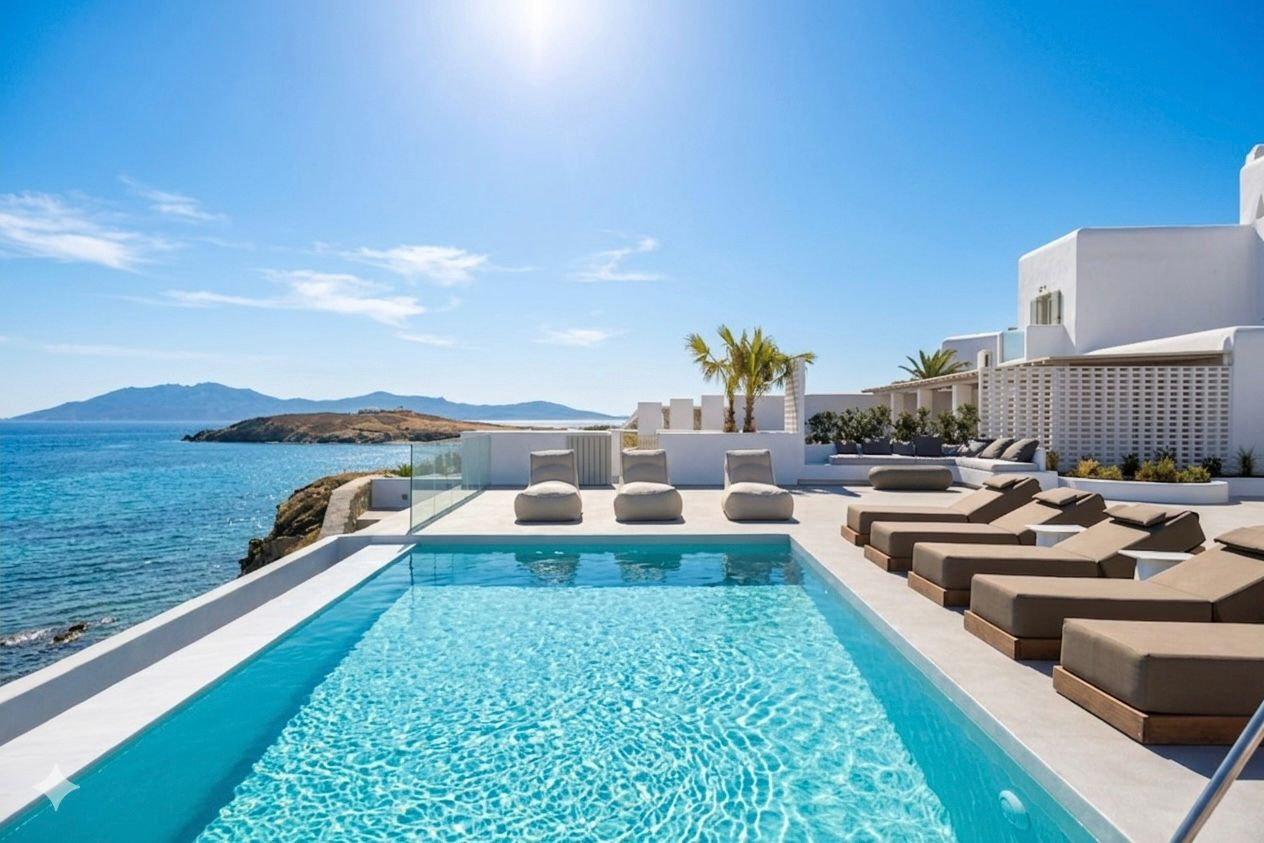
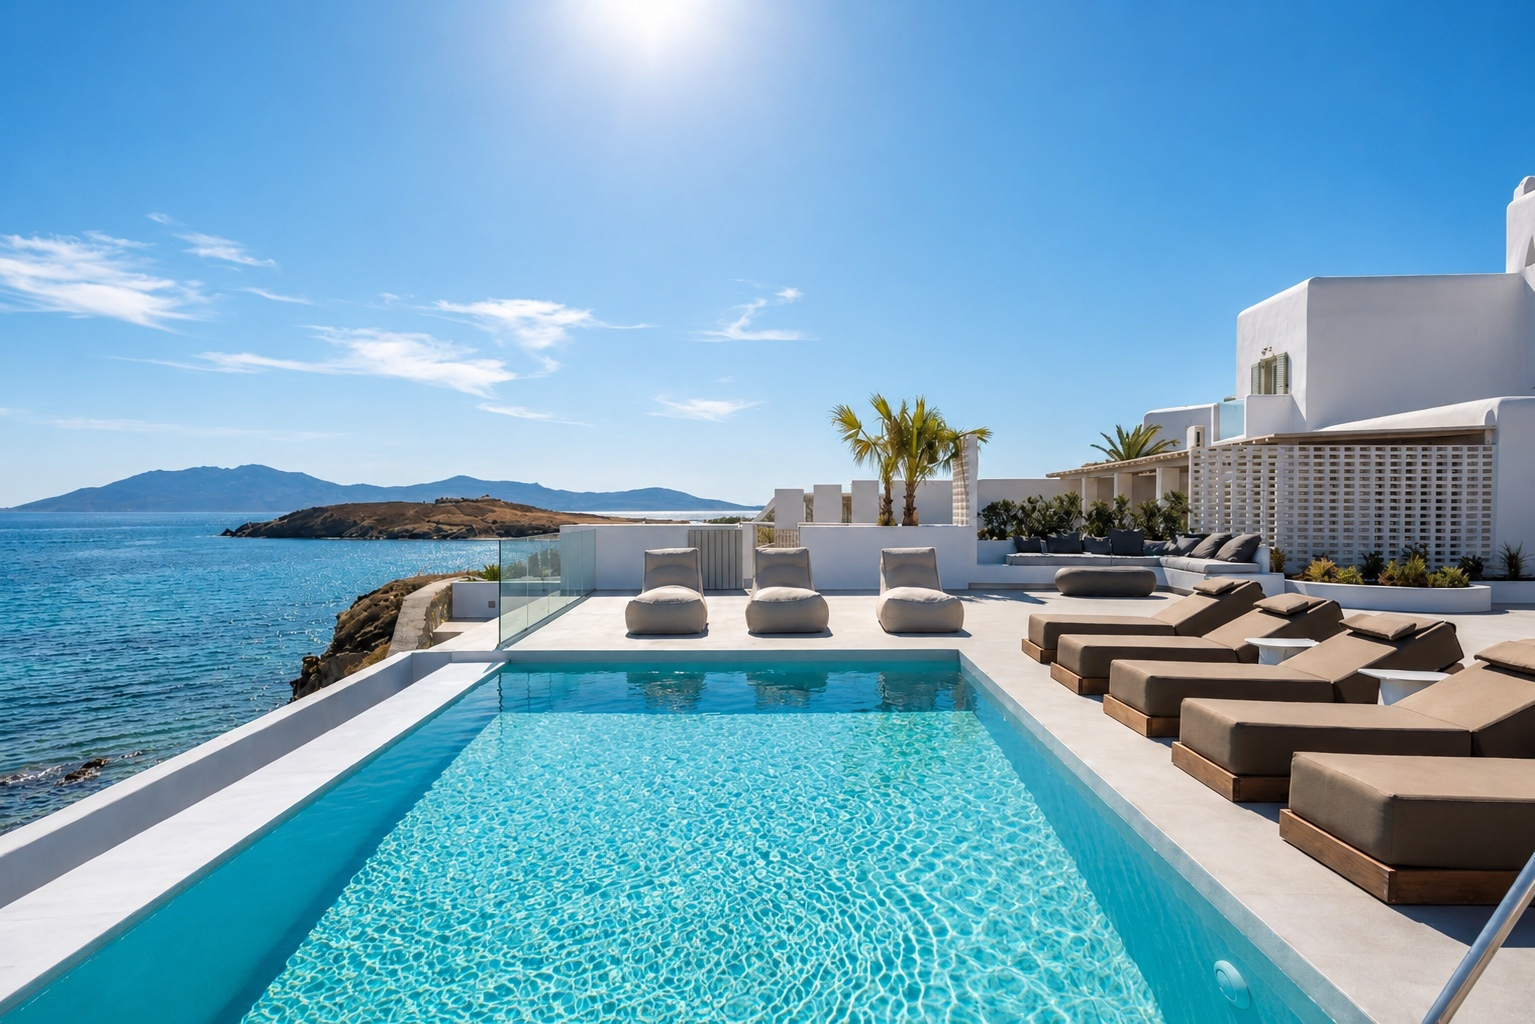
Replace hero background with AI-generated luxury pool image

diff --git a/index.html b/index.html
@@ -52,7 +52,7 @@
 <!-- =============== HERO =============== -->
 <section class="hero">
   <div class="hero-bg">
-    <img src="assets/villas/photos/villa-bailey/01.jpg" alt="White Soul Ibiza">
+    <img src="assets/hero-bg.jpeg" alt="White Soul Ibiza">
   </div>
   <div class="hero-overlay"></div>
   <div class="container hero-content">